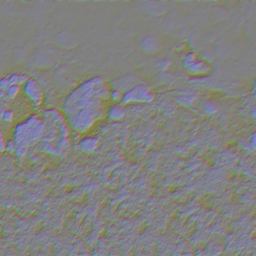
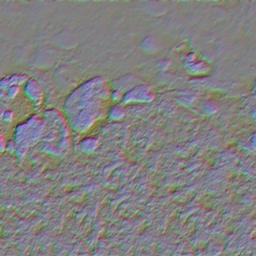
RTX fix

diff --git a/rtx_materials/author.py b/rtx_materials/author.py
@@ -71,8 +71,18 @@ def masks(image, profile):
     height = (0.35 * np.clip(detail / max(float(np.std(detail)) * 3, 0.06), -1, 1)
               + 0.65 * np.clip(medium / max(float(np.std(medium)) * 3, 0.06), -1, 1))
     relief_height = np.clip(.5 + height * min(.48, profile['relief'] * 1.5), .02, .98)
-    gx = (np.roll(relief_height, -1, 1) - np.roll(relief_height, 1, 1)) * image.width * .006
-    gy = (np.roll(relief_height, -1, 0) - np.roll(relief_height, 1, 0)) * image.height * .006
+    if profile.get('height_layout') == 'cof_hogmur2b':
+        # c_hogmur2B evidence: horizontal slab joint at y=101/192, top moulding
+        # in the first 16 rows. Streaks are grime, not displaced stone veins.
+        y, x = np.mgrid[:image.height, :image.width]
+        row = y / image.height
+        joint = np.exp(-((row-101/192)/(1.3/192))**2)
+        edge = np.exp(-((row-16/192)/(1.2/192))**2)
+        moulding = np.exp(-((row-7/192)/(4.5/192))**2)
+        relief_height = np.clip(.53 - .32*joint - .16*edge + .20*moulding
+                               + .015*np.clip(detail/.06,-1,1), .02,.98)
+    gx = (np.roll(relief_height, -1, 1) - np.roll(relief_height, 1, 1)) * image.width * .012
+    gy = (np.roll(relief_height, -1, 0) - np.roll(relief_height, 1, 0)) * image.height * .012
     normal = np.ones((*lum.shape, 4), dtype=np.float64)
     # RTGL uses tangent XY slopes (not a conventional normalized XYZ normal).
     normal[..., 0] = 0.5 - np.clip(gx, -0.95, 0.95) * 0.5
@@ -80,6 +90,10 @@ def masks(image, profile):
     normal[..., 2] = relief_height
     normal[..., 3] = 254/255
     rough = profile['roughness'] - profile['variation'] * height
+    if profile.get('height_layout') == 'cof_hogmur2b':
+        # Grime broadens the reflection while the smoother stone remains visible.
+        grime=np.clip((blur(lum,2)-blur(lum,14)) / -.12,0,1)
+        rough=np.clip(profile['roughness']+.23*grime+.25*joint,.38,.88)
     metallic = np.zeros_like(lum)
     if profile['kind'] == 'rust':
         rust = np.clip((rgb[..., 0] - rgb[..., 2]) * 5 + (rgb[..., 0] - rgb[..., 1]) * 2, 0, 1)

diff --git a/tools/smoke_rtx.py b/tools/smoke_rtx.py
@@ -92,6 +92,7 @@ def main():
     parser=argparse.ArgumentParser(description=__doc__)
     parser.add_argument('--interactive',action='store_true',help='Explicit opt-in: visible game on your desktop with passive pixel capture')
     parser.add_argument('--readback',action='store_true',help='Opt-in Vulkan swapchain readback on the isolated desktop; build tools/build_readback.py first')
+    parser.add_argument('--runtime-dir',type=Path,help='Separate staged runtime under out/; keeps an active user build untouched')
     parser.add_argument('--timeout',type=int,default=0,help='Bounded startup/runtime allowance for a cold shader cache (seconds, 1-600)')
     parser.add_argument('--renderer',choices=['normal','rtx'],default='rtx')
     parser.add_argument('--ui',action='store_true')
@@ -148,6 +149,10 @@ def main():
     if args.graphics or args.motion:args.map='cof_graphics_test'
     if not re.fullmatch('[a-zA-Z0-9_]+',args.map):parser.error('Invalid map')
     runtime=ROOT/('out/runtime-rtx' if args.renderer=='rtx' else 'out/runtime')
+    if args.runtime_dir:
+        runtime=args.runtime_dir.resolve()
+        if not runtime.is_relative_to((ROOT/'out').resolve()) or not (runtime/'xash3d.exe').is_file():
+            parser.error('--runtime-dir must be an existing runtime under out/')
     report=ROOT/'analysis/local';report.mkdir(parents=True,exist_ok=True)
     tag=args.renderer+('-settings' if args.ui else '-'+args.map)
     if args.console_output:tag=args.renderer+'-console-output'

diff --git a/tools/prepare_rtx_shaders.py b/tools/prepare_rtx_shaders.py
@@ -121,6 +121,21 @@ def prepare():
     text=text.replace(anchor,'    texCoords[0]=cofReliefUV(tr,texCoords[0],vec2(derivSet.u[0],0),vec2(0,derivSet.u[0]),h.normal,rayOrigin-h.hitPosition);\n\n'+anchor)
     hit.write_text(text)
     shutil.copy2(ROOT/'src/cof/render/rtx_relief.glsl',hit.parent/'rtx_relief.glsl')
+    direct=target/'Shaders/RtRaygenDirect.rgen'
+    text=direct.read_text().replace('#version 460','#version 460\n#extension GL_GOOGLE_include_directive : require',1)
+    text=text.replace('#define MATERIAL_MAX_ALBEDO_LAYERS 0','#define MATERIAL_MAX_ALBEDO_LAYERS 4')
+    text=text.replace('#include "RaygenCommon.h"','#include "RaygenCommon.h"\n#include "rtx_relief_shadow.glsl"')
+    anchor='    // demodulate for denoising'
+    if text.count(anchor)!=1:raise ValueError('Direct relief shadow hook changed')
+    text=text.replace(anchor,'''    if (isReservoirValid(r)) {
+        LightSample chosen=sampleLight(lightSources[r.selected],surf.position,getLightPointRnd(seed));
+        float visible=cofReliefLightVisibility(pix,surf,chosen.position);
+        diffuse*=visible; specular*=visible;
+    }
+
+'''+anchor)
+    direct.write_text(text)
+    shutil.copy2(ROOT/'src/cof/render/rtx_relief_shadow.glsl',hit.parent/'rtx_relief_shadow.glsl')
     # Authored water should absorb light, not emit a constant colored fog.
     # Keep the original menu's near-black transmission approximation unchanged.
     media=target/'Shaders/Media.h'

diff --git a/tools/audit_rtx.py b/tools/audit_rtx.py
@@ -24,7 +24,7 @@ def audit():
     }
     expected={name:digest((ROOT/source).read_bytes()) for name,source in sources.items()}
     shaders={'rt/shaders/'+name:digest((ROOT/'build/rtx-shaders'/name).read_bytes())
-             for name in ('CmPrepareFinal.comp.spv','RtVolumetric.rgen.spv','RtRaygenPrimary.rgen.spv','RtRaygenReflRefr.rgen.spv','RtRaygenIndirectInit.rgen.spv','RtRaygenIndirectFinal.rgen.spv')}
+             for name in ('CmPrepareFinal.comp.spv','RtVolumetric.rgen.spv','RtRaygenDirect.rgen.spv','RtRaygenPrimary.rgen.spv','RtRaygenReflRefr.rgen.spv','RtRaygenIndirectInit.rgen.spv','RtRaygenIndirectFinal.rgen.spv')}
     with zipfile.ZipFile(package) as archive:
         expected.update({name:digest(archive.read('rt_bin/'+name)) for name in DLLS if name!='NRI.dll'})
         for name in archive.namelist():

diff --git a/tools/build_rtx.py b/tools/build_rtx.py
@@ -89,7 +89,7 @@ def main():
     shaders=prepare_shaders()
     run_waf(shaders,ROOT/'build/rtx-shaders',[],env)
     shader_hashes={}
-    for name in ('CmPrepareFinal.comp.spv','RtVolumetric.rgen.spv','RtRaygenPrimary.rgen.spv','RtRaygenReflRefr.rgen.spv','RtRaygenIndirectInit.rgen.spv','RtRaygenIndirectFinal.rgen.spv'):
+    for name in ('CmPrepareFinal.comp.spv','RtVolumetric.rgen.spv','RtRaygenDirect.rgen.spv','RtRaygenPrimary.rgen.spv','RtRaygenReflRefr.rgen.spv','RtRaygenIndirectInit.rgen.spv','RtRaygenIndirectFinal.rgen.spv'):
         compiled=ROOT/'build/rtx-shaders'/name
         destination=RUNTIME/'rt/shaders'/name
         verify_shader(destination,compiled)

diff --git a/rtx_materials/DEVELOPMENT.md b/rtx_materials/DEVELOPMENT.md
@@ -84,6 +84,43 @@ commits. This is a close-surface improvement, not completion of the full graphic
 plan: old albedo resolution remains visible, models are unchanged, relief does
 not cast geometric microshadows, and GPU pass cost is not yet measured.
 
+## Grazing wall correction — 2026-11-19
+
+User review still rejected the visible flatness. The earlier buffer probes
+proved shader inputs, not the requested artistic result.
+
+- Reproduced the alley at `-642 692 39 5 15 0` in `c_park`. Read-only BSP ray
+  intersections identify the left slab wall as `c_hogmur2B`.
+- Replaced the max-axis height footprint with the minor axis of its UV ellipse;
+  nearby oblique surfaces no longer lose height solely from anisotropic stretch.
+  Height sampling uses 16–64 bounded steps and a narrower tangent fade.
+- Height scale and generated tangent slopes are consistent at the new strength;
+  automatic sidecar cache is v6. The separate `c_hogmur2b` numeric profile models
+  its joint/moulding, with grime assigned to roughness rather than raised veins.
+  Profile matching remains source-content checked, not map-name checked.
+- Added a pinned seventh shader, `RtRaygenDirect.rgen`, with 16-sample local
+  height-field visibility for the selected light. Both diffuse and specular
+  are attenuated; emission/indirect/refraction are excluded. This is a shading
+  approximation, not displaced geometry or geometric shadow rays.
+- Staged Waf build and seven shader ABI checks pass. Native/Python mip tests
+  and final authored pack checksum comparison pass. Reviewed `grazing-before`,
+  `grazing-after`, `grazing-no-relief-shadow`, and `slab-final` GPU readbacks.
+  The A/B light-visibility effect is visible, but stochastic noise means raw
+  pixel difference is not a performance or physical-accuracy metric.
+- Staircase motion assertions pass; selected `relief-shadow-motion` frames
+  reviewed, not continuous video. `relief-shadow-menu` exclusion checks pass
+  and menu frame reviewed. Non-RTX `relief-shadow-normal` runtime checks pass
+  without a visual claim. No original resources were modified.
+- Tests used a separate `out/runtime-rtx-material-review` while the user's
+  `out/runtime-rtx` process remained running. `smoke_rtx.py --runtime-dir` now
+  supports this without changing the isolated desktop/audio requirements.
+
+The silhouette remains the original flat BSP. These improvements do not meet
+an expectation of actual protruding stone geometry; displacement/topology and
+better authored material reconstruction remain separate work. GPU pass cost
+and arbitrary-map artistic quality are not yet established. Do not describe
+this checkpoint as completion of the full visual upgrade.
+
 ## Remaining work
 
 1. Improve close-range and moving-camera shoreline validation; address exact volume boundaries and irregular or

diff --git a/rtx_materials/GUIDE.md b/rtx_materials/GUIDE.md
@@ -11,7 +11,7 @@ The ordinary renderer and cinematic 3D menu retain their existing materials.
   custom maps work without a material pack. The existing `sound/materials.txt`
   supplies surface classes where available; unknown surfaces stay matte and
   nonmetallic. Color/brightness alone cannot identify a physical substance.
-* **Authored:** the first pack has 18 materials / 36 PNG masks, covering paving,
+* **Authored:** the pack has 19 materials / 38 PNG masks, covering paving,
   masonry, concrete, asphalt, gravel, earth, painted and rusted metal. Matching
   raw texture content selects these more carefully tuned masks. A different
   custom texture with the same name receives the automatic treatment instead.
@@ -75,16 +75,25 @@ Masks can then be hand-edited without re-running the authoring command:
 The generator combines fine grain with medium-scale relief so normal-map mip
 filtering does not erase all detail at ordinary viewing distances. Automatic
 masks use contrast-normalized medium-scale detail and a bounded slope; their
-cache namespace is `cof_auto/v5_...`. Neither path increases scene exposure.
+cache namespace is `cof_auto/v6_...`. Neither path increases scene exposure.
 
 Height-enabled masks use bounded parallax occlusion mapping on primary and
 reflection hits. It shifts albedo, normal and ORM lookup coordinates together,
-with 12–24 height samples, distance/footprint filtering and a grazing-angle
+with 16–64 height samples, minor-axis footprint filtering and a near-tangent
 fade. Indirect lighting retains the macro surface. This gives close surfaces
 view-dependent relief, but does not add geometry, silhouettes, collision or
-ray-traced microshadows. Height inferred from color is an artistic approximation;
+geometric microshadows. A separate 16-sample height-field visibility check
+attenuates the selected direct light's diffuse and specular contribution at
+primary opaque hits. It leaves indirect lighting, emission and refracted hits
+alone. Height inferred from color is an artistic approximation;
 hand-authored height fields are preferable when the source contains painted
 decals or shadows that cannot be separated automatically.
+
+The content-verified `c_hogmur2b` profile has a dedicated height layout for its
+slab joint and upper moulding. Its grime changes roughness rather than becoming
+raised veins. `height_layout: cof_hogmur2b` is specific to that source image;
+do not copy it onto arbitrary custom textures. Other surfaces use the generic
+fallback or their own authored masks.
 
 Numeric mipmaps preserve unresolved normal-slope variation as additional
 roughness. Both authored and automatic masks use the same bounded response;
